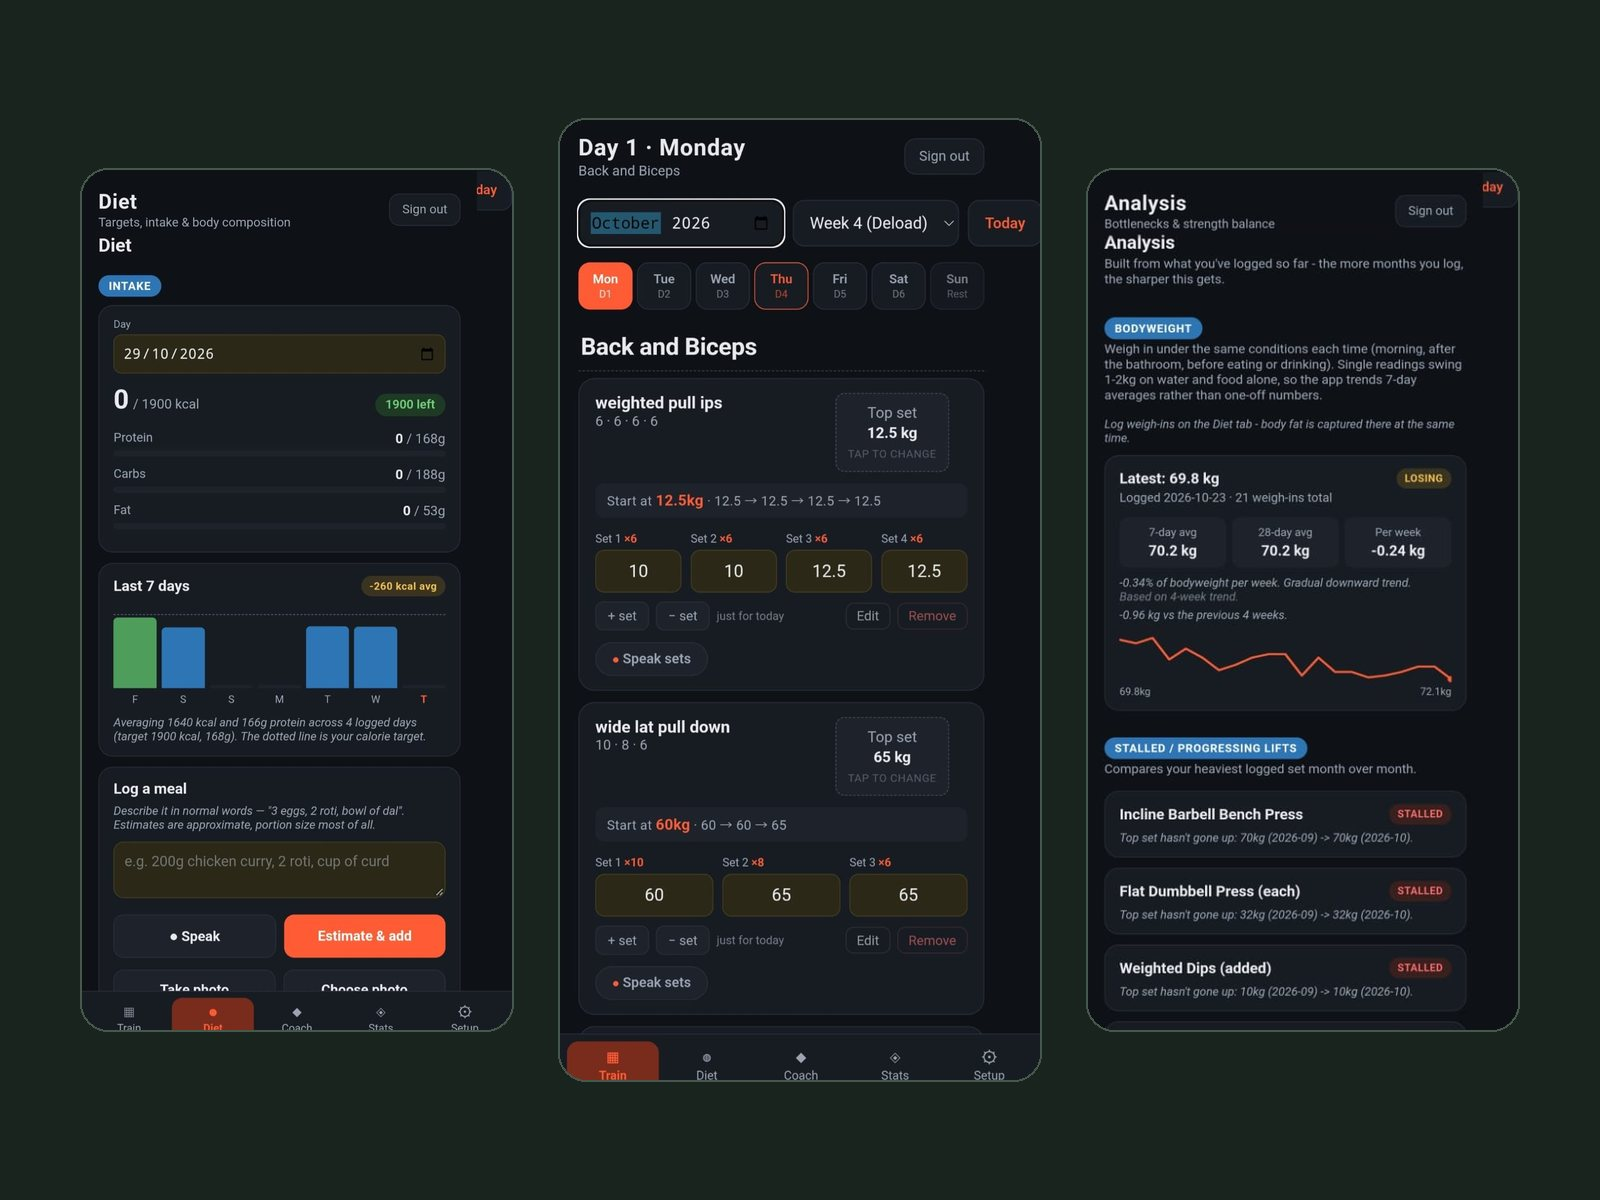
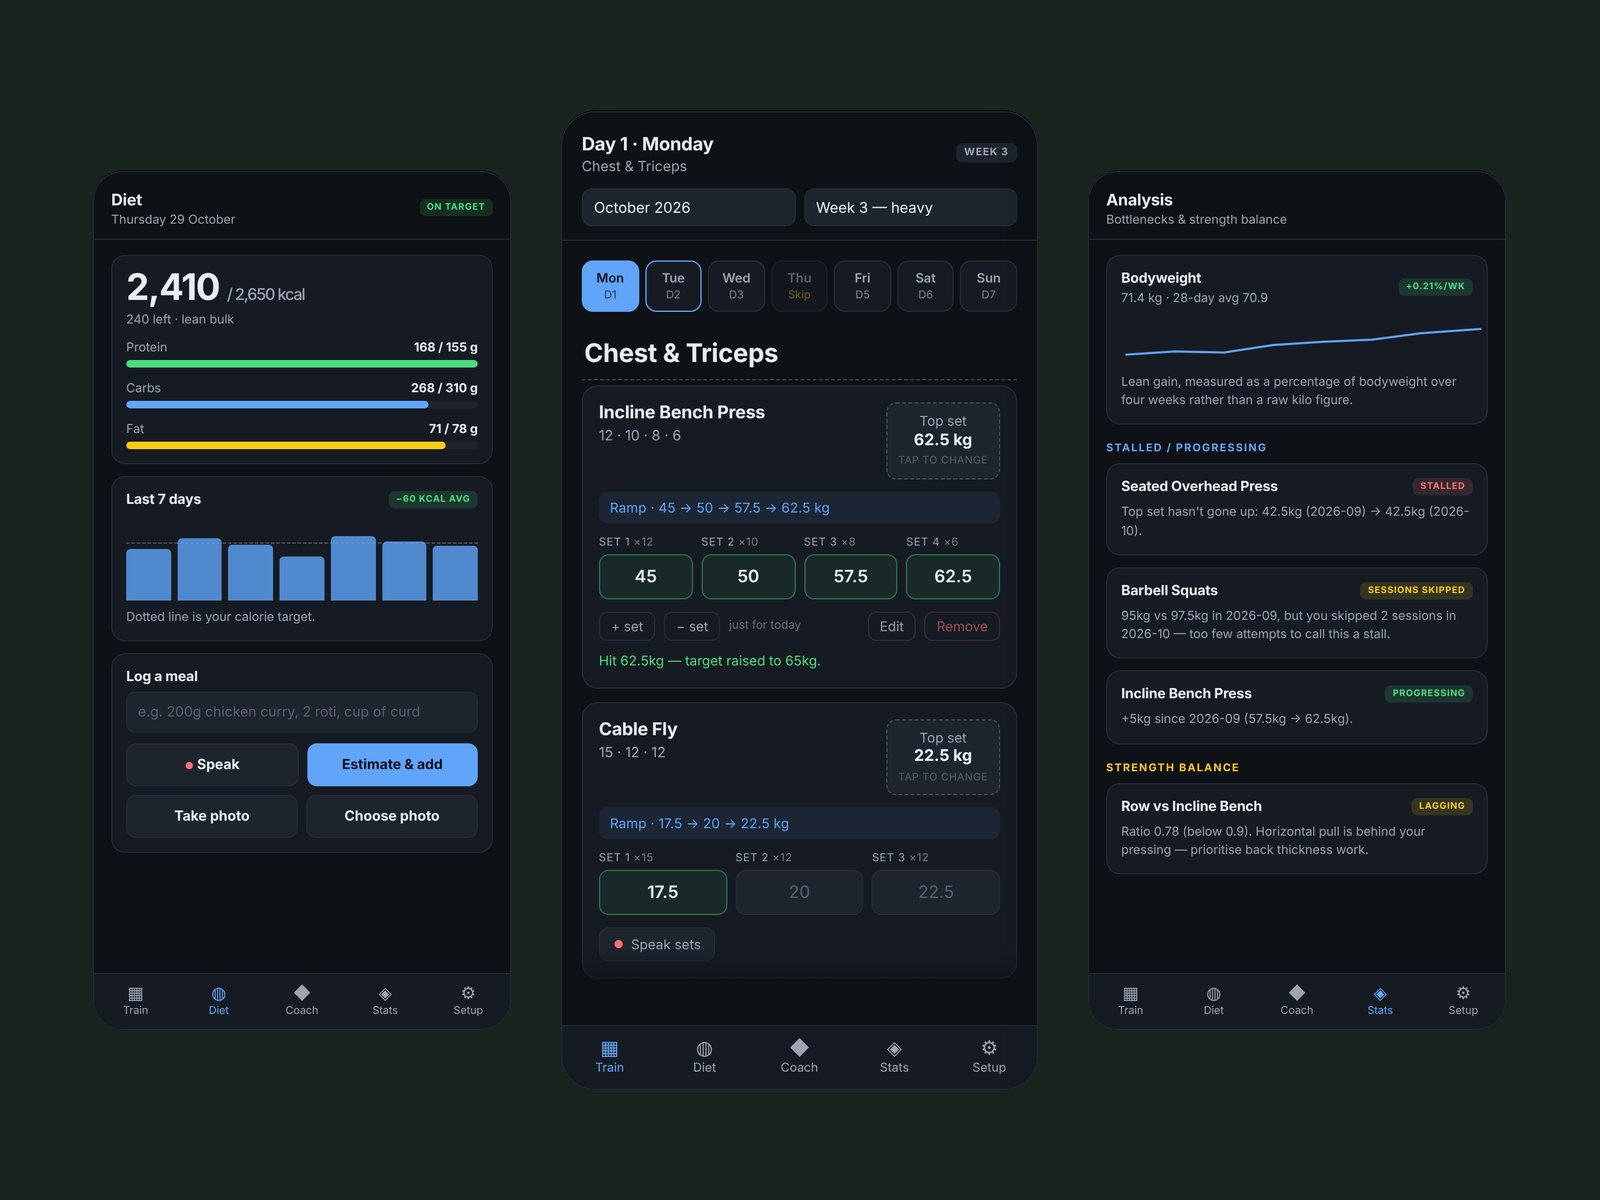
Use sample-data app screens instead of personal screenshots
Claude-Session: https://claude.ai/code/session_01YD2zAZ2bzRdj8Bt9ushMBj

diff --git a/index.html b/index.html
@@ -221,7 +221,7 @@ dialog[open]{animation:pop .22s ease-out}
     <!-- Fitness app -->
     <article class="project">
       <button class="media" data-open="dlg-fitness" aria-label="Open 6-Day Split Tracker project details">
-        <img src="images/fitness-app/cover.jpg" alt="Three screens of the 6-Day Split Tracker: diet intake, a logged training day, and bodyweight and stalled-lift analysis" loading="lazy" width="1600" height="1200">
+        <img src="images/fitness-app/cover.jpg" alt="Three screens of the 6-Day Split Tracker with sample data: diet targets, a logged training day, and bottleneck analysis" loading="lazy" width="1600" height="1200">
       </button>
       <div>
         <div class="badges"><span class="badge">Software</span><span class="badge">In daily use</span></div>
@@ -351,13 +351,14 @@ dialog[open]{animation:pop .22s ease-out}
   <div class="dlg-head"><h2 id="t-fitness">6-Day Split Tracker: training and nutrition app</h2><button class="close" aria-label="Close">×</button></div>
   <div class="dlg-body">
     <div class="gallery phones">
-      <figure><button data-full="images/fitness-app/train.jpg"><img src="images/fitness-app/train.jpg" alt="Training day: per-set targets worked back from the top set" loading="lazy"></button><figcaption>Training day</figcaption></figure>
-      <figure><button data-full="images/fitness-app/diet.jpg"><img src="images/fitness-app/diet.jpg" alt="Diet: daily targets, 7-day intake and meal logging" loading="lazy"></button><figcaption>Diet</figcaption></figure>
-      <figure><button data-full="images/fitness-app/body.jpg"><img src="images/fitness-app/body.jpg" alt="Body composition and calorie targets" loading="lazy"></button><figcaption>Body composition and calorie targets</figcaption></figure>
-      <figure><button data-full="images/fitness-app/stats.jpg"><img src="images/fitness-app/stats.jpg" alt="Analysis: bodyweight trend and stalled lifts" loading="lazy"></button><figcaption>Analysis</figcaption></figure>
-      <figure><button data-full="images/fitness-app/coach.jpg"><img src="images/fitness-app/coach.jpg" alt="Coach: monthly review, progress photos and Excel export" loading="lazy"></button><figcaption>Coach</figcaption></figure>
-      <figure><button data-full="images/fitness-app/setup.jpg"><img src="images/fitness-app/setup.jpg" alt="Lift settings: targets, increments and deload" loading="lazy"></button><figcaption>Lift settings</figcaption></figure>
+      <figure><button data-full="images/fitness-app/session.jpg"><img src="images/fitness-app/session.jpg" alt="Logging a session: targets ramp back from the top set" loading="lazy"></button><figcaption>Logging a session</figcaption></figure>
+      <figure><button data-full="images/fitness-app/build-day.jpg"><img src="images/fitness-app/build-day.jpg" alt="Building a day from scratch" loading="lazy"></button><figcaption>Building a day</figcaption></figure>
+      <figure><button data-full="images/fitness-app/diet.jpg"><img src="images/fitness-app/diet.jpg" alt="Diet: calorie and macro targets" loading="lazy"></button><figcaption>Diet targets</figcaption></figure>
+      <figure><button data-full="images/fitness-app/meal-photo.jpg"><img src="images/fitness-app/meal-photo.jpg" alt="Meal photo broken into editable items" loading="lazy"></button><figcaption>Meal photo result</figcaption></figure>
+      <figure><button data-full="images/fitness-app/analysis.jpg"><img src="images/fitness-app/analysis.jpg" alt="Analysis: stalls, skips and strength balance" loading="lazy"></button><figcaption>Bottleneck analysis</figcaption></figure>
+      <figure><button data-full="images/fitness-app/skipped.jpg"><img src="images/fitness-app/skipped.jpg" alt="A skipped session kept out of stall checks" loading="lazy"></button><figcaption>Skipped session</figcaption></figure>
     </div>
+    <p class="notes" style="color:var(--muted);font-size:.95rem;margin:12px 0 0">Screens shown with sample data.</p>
     <h3>The problem</h3>
     <p>Commercial trackers impose their own programs and put the useful parts behind a paywall. I wanted to define the split myself, have weight targets progress on performance rather than the calendar, and keep my own data. So I built an installable web app that works offline, syncs across phone and laptop, and replaced the spreadsheet I'd been keeping lifts in.</p>
     <h3>What it does</h3>
